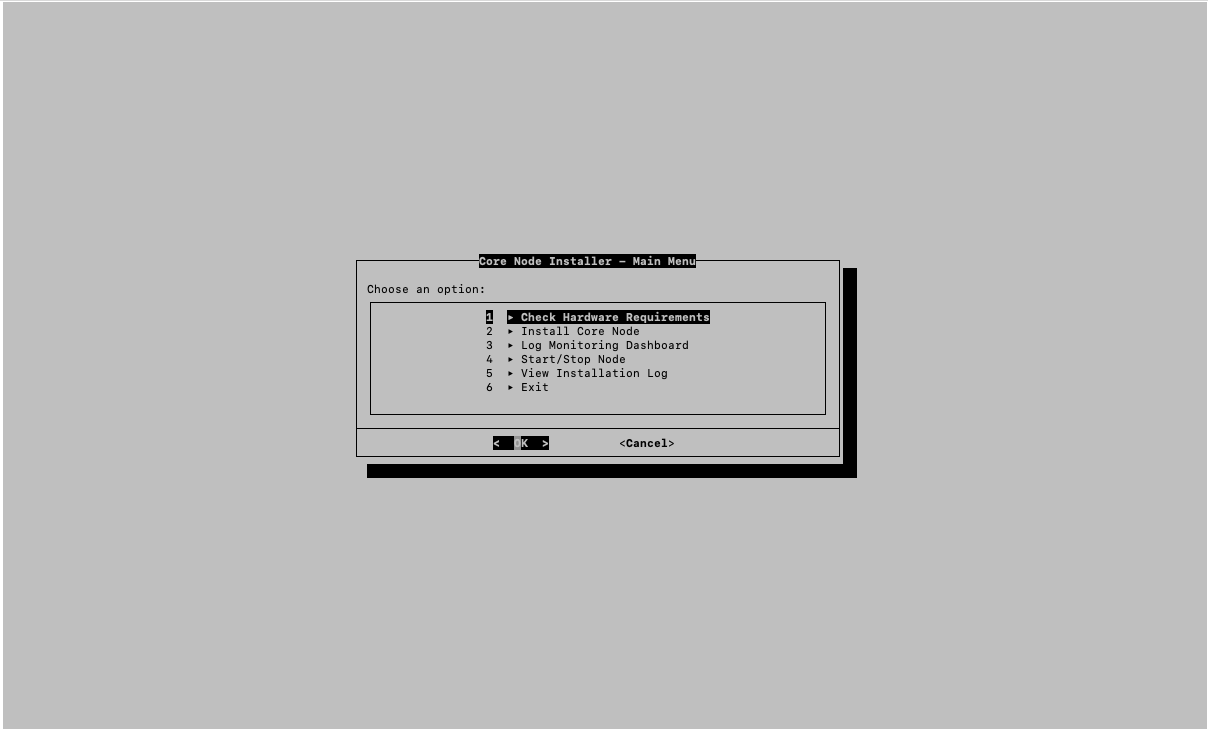
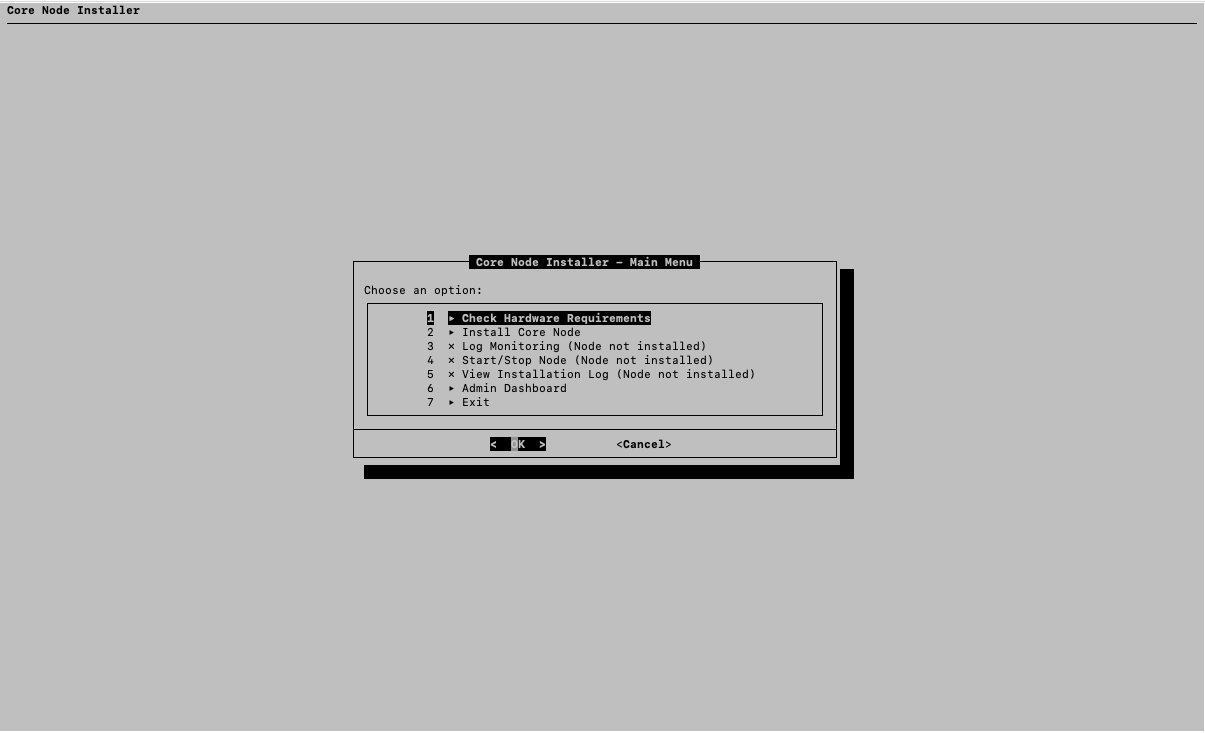
updated readme

diff --git a/README.md b/README.md
@@ -1,7 +1,6 @@
 # Core Node Installer: TUI for Testnet Validator Setup
 
-![Core Node Installer](./asset/homepage.png)
-
+![Homepage](./asset/homepage.png)
 This project provides a Terminal User Interface (TUI) to guide users through the process of setting up a Core testnet validator node. The installer simplifies the entire setup process, including hardware checks, dependencies installation, node setup, and management.
 
 ## Features
@@ -13,6 +12,7 @@ This project provides a Terminal User Interface (TUI) to guide users through the
 - **Node management**: Allows starting and stopping the validator node through the TUI.
 - **Progress indicators and status messages**: Real-time feedback during installation and node management.
 - **Log Monitoring Dashboard**: A comprehensive log monitoring system for real-time log viewing, error tracking, and log management.
+- **Admin Dashboard**: A new feature that provides powerful maintenance and management tools for the validator node.
 
 ## Main Components
 
@@ -21,6 +21,7 @@ This project provides a Terminal User Interface (TUI) to guide users through the
 - `hardware_check.sh`: Verifies that the system meets the hardware requirements for running a Core validator node.
 - `node_setup.sh`: Contains the logic for installing and setting up the node.
 - `log_monitor.sh`: The module for monitoring and managing logs, including the live log viewing dashboard and log statistics.
+- `admin_dashboard.sh`: The new module that provides administrative maintenance and management features for your validator node.
 
 ## Installation Process
 
@@ -90,6 +91,61 @@ This log monitoring dashboard provides much more sophisticated monitoring compar
 - **Tracking installation progress** through log messages.
 - **Maintaining log history** for long-term monitoring and analysis.
 
+## Admin Dashboard
+
+![Admin Dashboard](./asset/adminMenu.png)
+
+The **Admin Dashboard** is a powerful new feature designed for advanced node management and maintenance. It provides several tools to ensure your node is running smoothly and allows you to perform essential administrative tasks.
+
+### Features
+
+- **Clean Build Core Chain**:
+
+  - Cleans all build artifacts and rebuilds `geth` from scratch.
+  - Displays real-time progress and confirms success or failure.
+  - Ensures a fresh build of the Core chain environment.
+
+- **Delete Core Chain**:
+
+  - Completely removes the `core-chain` directory.
+  - Requires user confirmation before proceeding.
+  - Useful for starting fresh or reconfiguring the node.
+
+- **Reset Node Configuration**:
+
+  - Resets `config.toml` to default settings.
+  - Creates a backup of the existing configuration for future restoration.
+  - Ideal for fixing configuration issues or restoring default settings.
+
+- **Repair Installation**:
+
+  - **Verify Files**: Checks the integrity of the Git repository.
+  - **Fix Permissions**: Corrects file permissions to ensure smooth operation.
+  - **Reinstall Dependencies**: Reinstalls all required packages to ensure dependencies are up to date.
+  - Shows progress for each operation, helping ensure everything is fixed correctly.
+
+- **View System Status**:
+  - Displays key system information including:
+    - Core chain version
+    - Geth version
+    - Go version
+    - Node status (Running/Stopped)
+    - Installation directory
+    - Free disk space
+    - Recent log entries
+
+### How to Use the Admin Dashboard
+
+1. **From the main menu**, select "Admin Dashboard".
+2. **Choose between**:
+   - **Clean Build Core Chain**: Start a fresh rebuild of `geth` and clean the Core chain.
+   - **Delete Core Chain**: Remove the `core-chain` directory completely (with confirmation).
+   - **Reset Node Configuration**: Reset the node configuration to default settings.
+   - **Repair Installation**: Run file verification, fix permissions, or reinstall dependencies.
+   - **View System Status**: View current system status, including versions, disk space, and node health.
+
+The Admin Dashboard ensures that node maintenance is easy and safe, with confirmation dialogs for destructive operations and real-time progress tracking. It helps administrators maintain a healthy node environment by providing powerful tools to clean, reset, and repair the node configuration and setup.
+
 ## Usage
 
 ### Prerequisites
@@ -103,8 +159,8 @@ This log monitoring dashboard provides much more sophisticated monitoring compar
 1. Clone the repository:
 
    ```bash
-   git clone https://github.com/harystyleseze/core-testnet-validator-node-installer.git
-   cd core-testnet-validator-node-installer/core-node-installer
+   git clone https://github.com/yourusername/core-node-installer.git
+   cd core-node-installer
    ```
 
 2. Run the installer:
@@ -119,6 +175,7 @@ This log monitoring dashboard provides much more sophisticated monitoring compar
    - **View Installation Log**: View the logs from the installation process.
    - **Start/Stop Node**: Start or stop the validator node.
    - **Log Monitoring Dashboard**: Access the live log viewing dashboard.
+   - **Admin Dashboard**: Access the new Admin Dashboard for advanced node management and maintenance.
    - **Exit**: Exit the installer.
 
 ### Installation Flow
@@ -152,7 +209,8 @@ The installer includes beautiful dialog-based menus and progress bars to guide u
   3) View Installation Log
   4) Start/Stop Node
   5) Log Monitoring Dashboard
-  6) Exit
+  6) Admin Dashboard
+  7) Exit
   ```
 
 - **Log Monitoring Dashboard:**
@@ -169,6 +227,20 @@ The installer includes beautiful dialog-based menus and progress bars to guide u
   6) Back
   ```
 
+- **Admin Dashboard:**
+
+  ```
+  Admin Dashboard
+
+  Please select an option:
+  1) Clean Build Core Chain
+  2) Delete Core Chain
+  3) Reset Node Configuration
+  4) Repair Installation
+  5) View System Status
+  6) Back
+  ```
+
 - **Installation Progress:**
   ```
   Installing dependencies...
@@ -181,7 +253,7 @@ If you'd like to contribute to this project, feel free to fork the repository an
 
 ## License
 
-This project is licensed under the MIT License.
+This project is licensed under the MIT License
 
 ---
 
